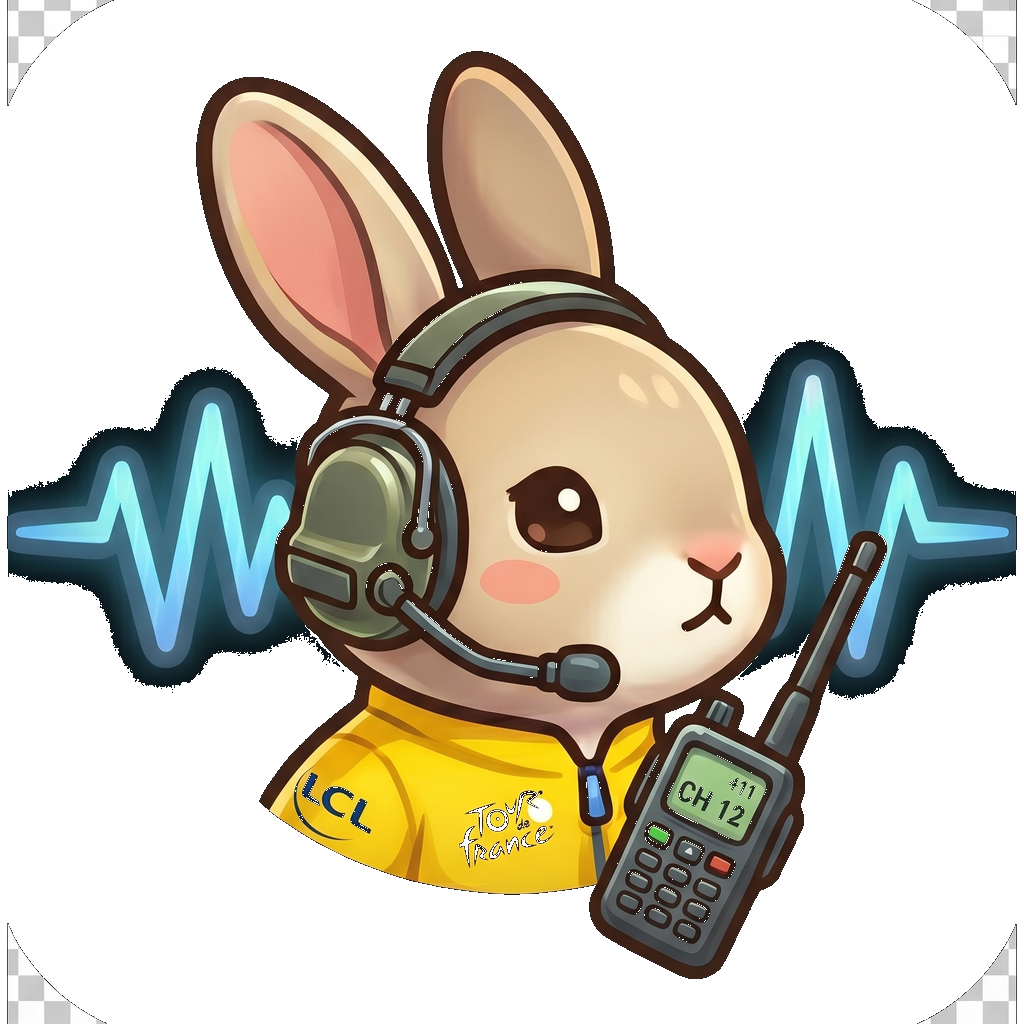
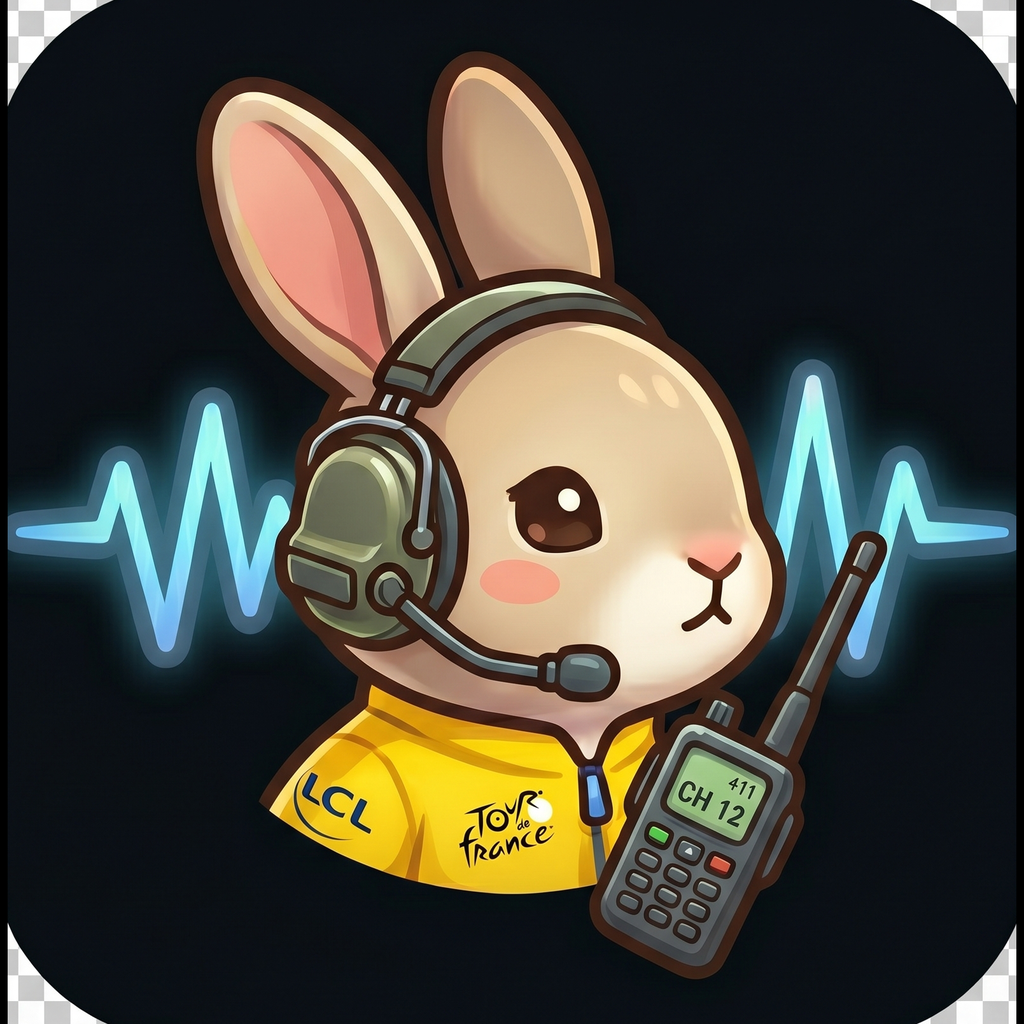
fix: strip white rounded-rect outline from hero PNG
The hero PNG had a white stroke drawn as part of the illustration —
visible as 4 small arcs at corners when CSS border-radius cut into it.

- Detect white/light-gray pixels in the outer band (dist > 380 from
  image center) and fill with pure black
- 17,142 white pixels + 1,525 gray pixels replaced
- Inner illustration (dark teal bg + rabbit + sound waves) untouched
- Regenerate og-image.png from corrected hero
- Backup the source as walkietokki-hero.original.png

Verified: all 4 corner diagonals d=0..40 are now (0,0,0).

diff --git a/scripts/strip-hero-outline.py b/scripts/strip-hero-outline.py
@@ -1,0 +1,74 @@
+#!/usr/bin/env python3
+"""
+Hero PNG 안에 그려진 흰색 rounded-rect outline 제거.
+
+문제: walkietokki-hero.png 안에는 일러스트의 일부로 "검정 사각형 + 흰색 둥근
+사각형 stroke + 어두운 청록색 안쪽 영역 + 토끼"가 다 합쳐져 있음.
+사이트에서 CSS `border-radius`로 모서리를 자르면 그 안에 있던 흰 stroke가
+4개 호로 노출됨 (사용자 보고).
+
+전략:
+1) 4 모서리에서 대각선 방향으로 들어가며 ‘이전엔 검정(0,0,0) → 흰(>200,>200,>200)
+   → 다시 어두움 (<60)’ 패턴 잡힌 영역 = 흰 outline ring.
+2) 해당 흰 ring 픽셀 전체를 안쪽 어두운 bg 색 (≈ rgb(10,15,21))으로 치환.
+3) 부드러운 경계 위해 1px Gaussian blur 후 ring 영역만 교체.
+
+결과: 같은 1024×1024 PNG, 검정 사각형은 그대로지만 흰 ring이 사라져
+다크 페이지 위 CSS rounded 모서리 처리해도 아무 아티팩트 안 보임.
+"""
+from pathlib import Path
+from PIL import Image, ImageFilter
+import numpy as np
+
+ROOT = Path(__file__).resolve().parent.parent
+HERO = ROOT / "public" / "assets" / "walkietokki-hero.png"
+SRC = ROOT / "public" / "assets" / "walkietokki-hero.original.png"
+
+# 원본 우선, 없으면 현재 파일
+src_path = SRC if SRC.exists() else HERO
+img = Image.open(src_path).convert("RGBA")
+arr = np.array(img).astype(np.int16)
+H, W = arr.shape[:2]
+R, G, B, A = arr[..., 0], arr[..., 1], arr[..., 2], arr[..., 3]
+
+# 흰색 픽셀 마스크 (RGB 모두 180 이상 = 흰/회/연한색)
+white_mask = (R > 180) & (G > 180) & (B > 180)
+print(f"흰 픽셀 총 개수 (raw): {white_mask.sum():,}")
+
+# 토끼 본체에도 흰 픽셀이 있을 수 있음 (얼굴/배 등) — 모서리 outline만 선택하려면
+# 위치 필터: 이미지 중심으로부터 일정 거리 밖 (outer band) 영역만 처리
+ys, xs = np.mgrid[0:H, 0:W]
+cy, cx = H / 2, W / 2
+dist = np.sqrt((xs - cx) ** 2 + (ys - cy) ** 2)
+# 토끼는 중앙 320px 이내, outline은 380~500px 사이로 추정됨
+outer_band = dist > 380  # 모서리 100~150px 정도 영역
+outline_mask = white_mask & outer_band
+print(f"outer-band 흰 픽셀 (outline 후보): {outline_mask.sum():,}")
+
+# 어두운 bg 평균 색 (안쪽 어두운 영역에서 샘플)
+inner_band = (dist > 200) & (dist < 350) & (R < 40) & (G < 40) & (B < 40)
+dark_bg = arr[inner_band][..., :3].mean(axis=0)
+print(f"검출된 dark bg color: ({dark_bg[0]:.0f}, {dark_bg[1]:.0f}, {dark_bg[2]:.0f})")
+
+# 모서리 검정 영역도 outline 안쪽에서 보이므로 진짜 검정(0,0,0) 으로 통일
+# → 그냥 outline 픽셀을 (0,0,0) 으로 치환하면 모서리 검정과 자연스럽게 융합
+fill = (0, 0, 0)
+arr2 = arr.copy()
+arr2[outline_mask, 0] = fill[0]
+arr2[outline_mask, 1] = fill[1]
+arr2[outline_mask, 2] = fill[2]
+
+# 살짝 남은 회색/광택 픽셀 (RGB 100~180) 도 outer band면 같이 처리
+gray_mask = (R > 100) & (R < 180) & (G > 100) & (G < 180) & (B > 100) & (B < 180) & outer_band
+arr2[gray_mask, 0] = fill[0]
+arr2[gray_mask, 1] = fill[1]
+arr2[gray_mask, 2] = fill[2]
+print(f"추가 회색 fill: {gray_mask.sum():,}")
+
+# 부드럽게 (1px gaussian blur는 detail 살리고 edge만 blend)
+out = Image.fromarray(arr2.astype(np.uint8), mode="RGBA")
+# blur는 ring 안쪽 모서리에서만 처리하려고 했지만 단순화: 전체 1px blur 생략
+out.save(HERO, "PNG", optimize=True)
+
+print(f"\nwrote {HERO}")
+print(f"size: {HERO.stat().st_size:,} bytes")
